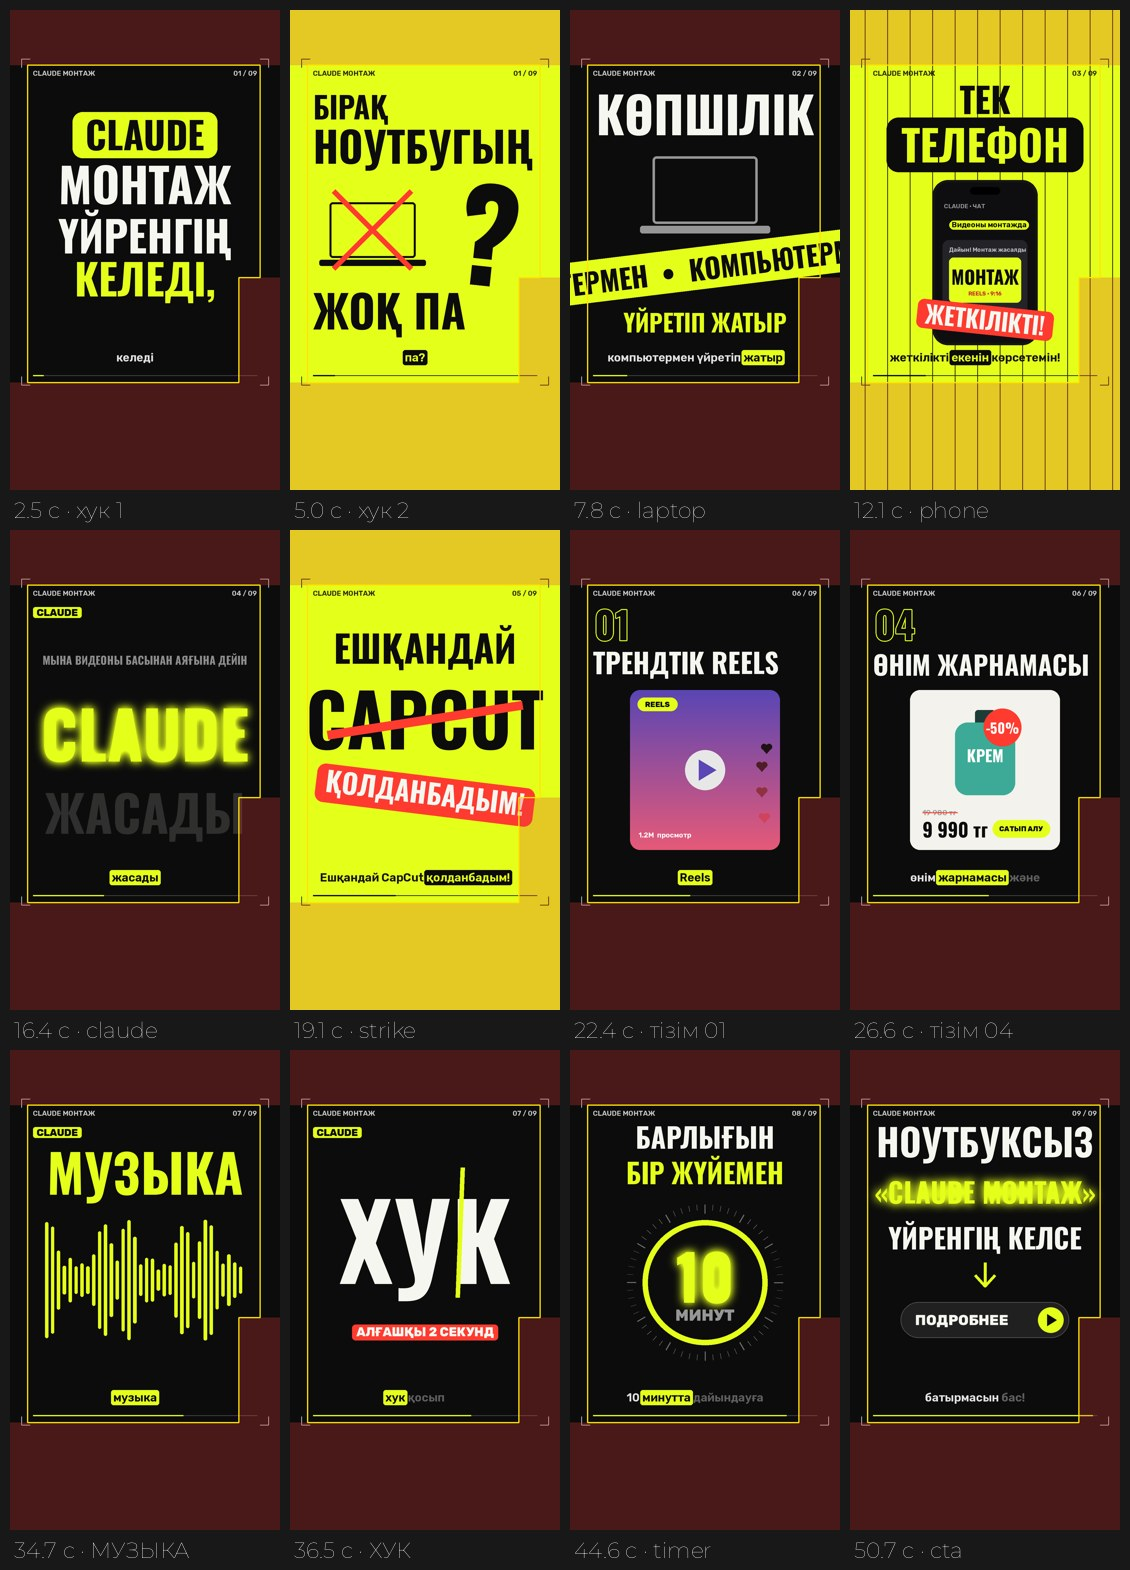
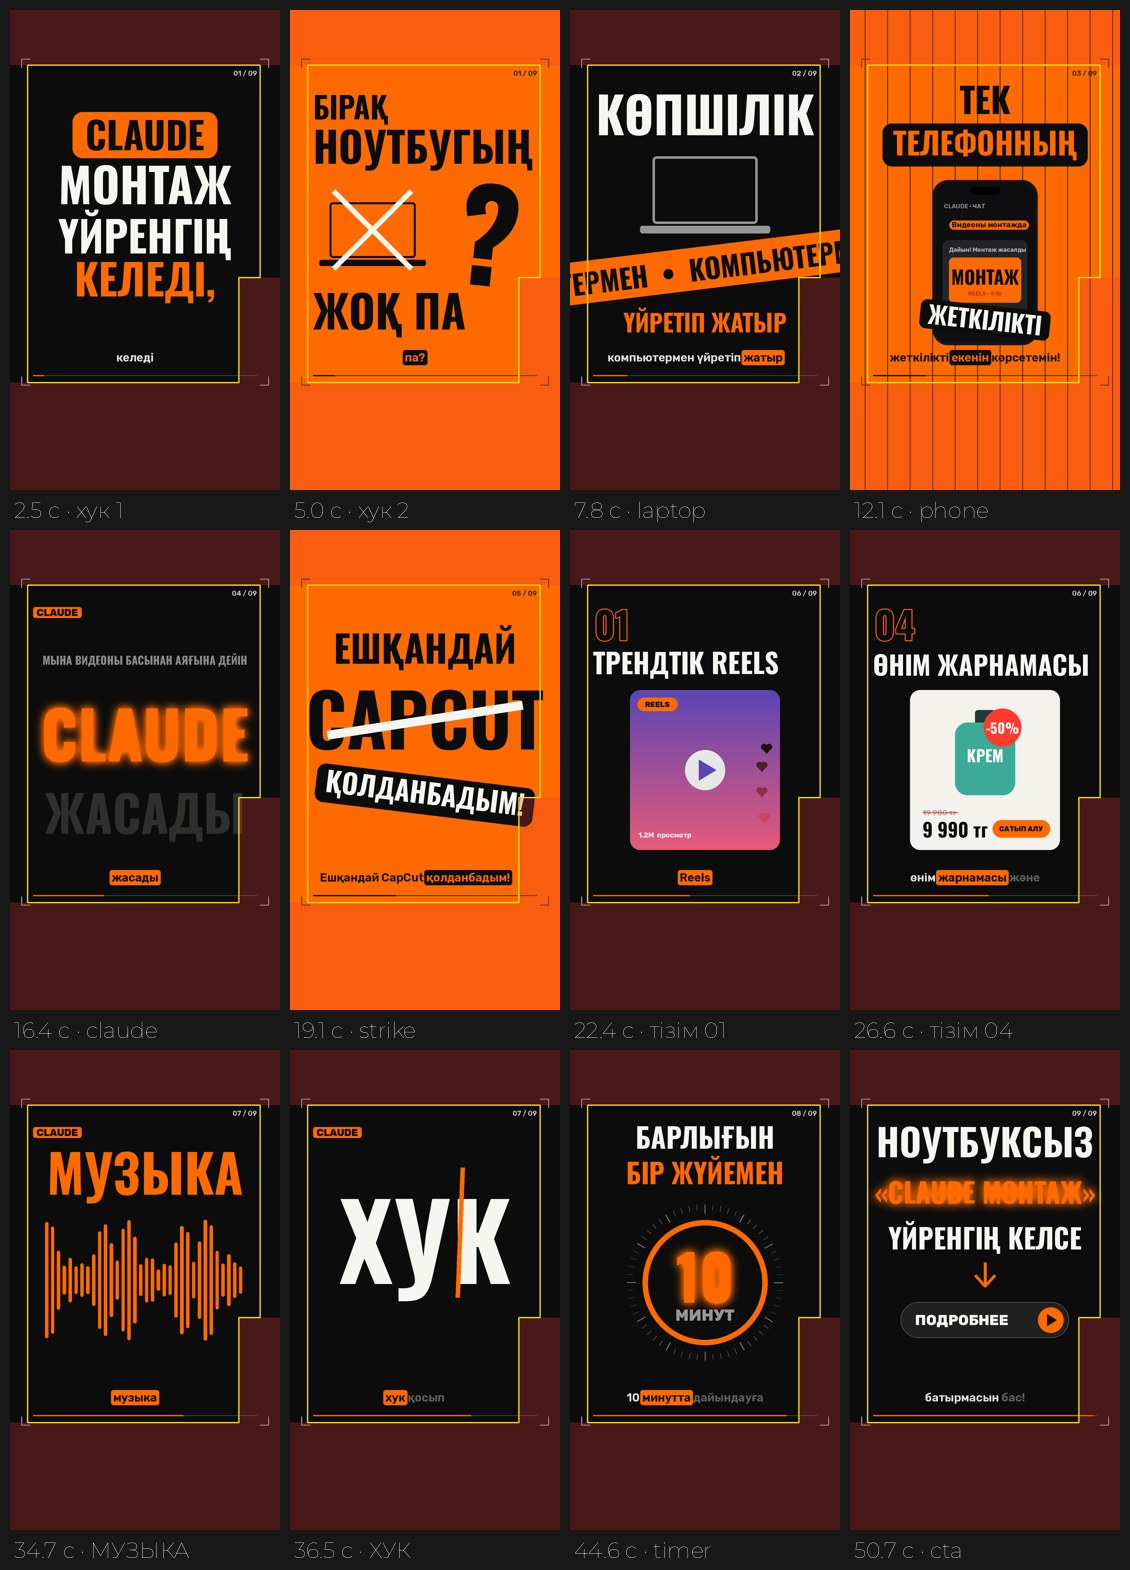
Оранжевый түс, музыкасыз, жазулар мәтін бойынша; талғам жаңартылды
Claude-Session: https://claude.ai/code/session_017A9pfpninecvKH27tc1dpf

diff --git a/.claude/skills/matin-video/scripts/lime.py b/.claude/skills/matin-video/scripts/lime.py
@@ -159,7 +159,7 @@ class LimeRenderer:
         self.plan, self.tl = plan, tl
         th = plan.get("theme", {})
         self.L = M.hex2rgb(th.get("accent", "#E4FF1A"))
-        self.label = th.get("label", "CLAUDE МОНТАЖ")
+        self.label = th.get("label", "")
         self.sc = plan["scenes"]
         self.ts = tl["scenes"]
         self.n = len(self.sc)
@@ -244,7 +244,8 @@ class LimeRenderer:
             d.line((x, y, x + sx * a, y), fill=c + (255,), width=3)
             d.line((x, y, x, y + sy * a), fill=c + (255,), width=3)
         f = rub(28, 600)
-        d.text((92, 236), self.label, font=f, fill=c + (255,))
+        if self.label:
+            d.text((92, 236), self.label, font=f, fill=c + (255,))
         cnt = "%02d / %02d" % (k + 1, self.n)
         bb = f.getbbox(cnt)
         d.text((988 - bb[2], 236), cnt, font=f, fill=c + (255,))
@@ -283,7 +284,7 @@ class LimeRenderer:
                     d.rounded_rectangle((x - pad, 1360, x + ww + pad, 1420), 10, fill=BLACK + (255,))
                     col = self.L
             else:
-                col = base if on else ((120, 130, 20) if bgk == "L" else (95, 95, 95))
+                col = base if on else ((110, 45, 0) if bgk == "L" else (95, 95, 95))
             d.text((x, 1390), w, font=f, fill=col + (255,), anchor="lm")
             x += ww + sp
 
@@ -312,7 +313,7 @@ class LimeRenderer:
             px = fit_px("НОУТБУГЫҢ", 200, 880)
             self.pop(im, text_sprite("НОУТБУГЫҢ", px, BLACK), 92, 560, tn, t, anchor="l")
             if t >= tn:
-                self.laptop(im, 330, 880, 0.82, BLACK, t - tn, cross=t - tn - 0.35)
+                self.laptop(im, 330, 880, 0.82, BLACK, t - tn, cross=t - tn - 0.35, xcol=WHITE)
             tj = self.wt(k, "жоқ")
             self.pop(im, text_sprite("ЖОҚ ПА", 180, BLACK), 92, 1220, tj, t, anchor="l")
             if t >= tj:
@@ -320,7 +321,7 @@ class LimeRenderer:
                 wob = math.sin((t - tj) * 5) * 6
                 paste(im, q, 800, 900, back((t - tj) / 0.35), 1, rot=-12 + wob)
 
-    def laptop(self, im, cx, cy, s, col, u, cross=-1.0, glow=False):
+    def laptop(self, im, cx, cy, s, col, u, cross=-1.0, glow=False, xcol=RED):
         d = ImageDraw.Draw(im)
         e = back(u / 0.35)
         w, h = 420 * s * e, 270 * s * e
@@ -331,10 +332,10 @@ class LimeRenderer:
         if cross > 0:
             c = ease(cross / 0.25)
             r = 190 * s
-            d.line((cx - r, cy - r, cx - r + 2 * r * c, cy - r + 2 * r * c), fill=RED + (255,), width=int(26 * s))
+            d.line((cx - r, cy - r, cx - r + 2 * r * c, cy - r + 2 * r * c), fill=xcol + (255,), width=int(26 * s))
             if cross > 0.12:
                 c2 = ease((cross - 0.12) / 0.25)
-                d.line((cx + r, cy - r, cx + r - 2 * r * c2, cy - r + 2 * r * c2), fill=RED + (255,), width=int(26 * s))
+                d.line((cx + r, cy - r, cx + r - 2 * r * c2, cy - r + 2 * r * c2), fill=xcol + (255,), width=int(26 * s))
 
     def v_laptop(self, im, k, t, u, bgk):
         L = self.L
@@ -397,7 +398,7 @@ class LimeRenderer:
     def v_phone(self, im, k, t, u, bgk):
         L = self.L
         self.pop(im, text_sprite("ТЕК", 140, BLACK), 540, 360, self.wt(k, "тек") - 0.3, t)
-        self.pop(im, pill_sprite("ТЕЛЕФОН", 170, L, BLACK), 540, 540, self.wt(k, "телефонның"), t)
+        self.pop(im, pill_sprite("ТЕЛЕФОННЫҢ", fit_px("ТЕЛЕФОННЫҢ", 170, 760), L, BLACK), 540, 540, self.wt(k, "телефонның"), t)
         tp = self.wt(k, "тек") - 0.3
         if t >= tp:
             e = ease((t - tp) / 0.6)
@@ -405,7 +406,7 @@ class LimeRenderer:
             self.phone(im, 540, top, 400, 640, t - tp, k, t)
         tj = self.wt(k, "жеткілікті")
         if t >= tj:
-            st = pill_sprite("ЖЕТКІЛІКТІ!", 96, WHITE, RED)
+            st = pill_sprite("ЖЕТКІЛІКТІ", 96, WHITE, BLACK)
             paste(im, st, 540, 1240, 1.4 - 0.4 * back((t - tj) / 0.25), cl((t - tj) / 0.1), rot=-6)
             self.hit(tj, "stamp")
 
@@ -432,8 +433,8 @@ class LimeRenderer:
         if t >= tq:
             d = ImageDraw.Draw(im)
             e = ease((t - tq) / 0.22)
-            d.line((150, 820, 150 + 780 * e, 700), fill=RED + (255,), width=36)
-            st = pill_sprite("ҚОЛДАНБАДЫМ!", 110, WHITE, RED)
+            d.line((150, 820, 150 + 780 * e, 700), fill=WHITE + (255,), width=36)
+            st = pill_sprite("ҚОЛДАНБАДЫМ!", 110, WHITE, BLACK)
             paste(im, st, 540, 1060, 1.5 - 0.5 * back((t - tq - 0.1) / 0.25), cl((t - tq - 0.1) / 0.1), rot=-7)
 
     # ---- тізім карточкалары
@@ -468,7 +469,7 @@ class LimeRenderer:
             d.rounded_rectangle((0, 0, cw - 1, ch - 1), 40, fill=(34, 40, 64, 255))
             d.ellipse((cw / 2 - 90, 90, cw / 2 + 90, 270), fill=(110, 120, 160, 255))
             d.rounded_rectangle((cw / 2 - 170, 290, cw / 2 + 170, 560), 120, fill=(110, 120, 160, 255))
-            words = ["ҚОЗҒАЛМАЛЫ", "СУБТИТР"]
+            words = ["ҚОЗҒАЛЫСТАҒЫ", "СУБТИТР"]
             j = int(u * 2.5) % 2
             f = font(50)
             xs = [60, 380]
@@ -541,7 +542,7 @@ class LimeRenderer:
         i = self.item_idx(k, t)
         if i < 0:
             self.pop(im, text_sprite("ОСЫ ӘДІСПЕН", 170, WHITE), 540, 680, self.ts[k]["s"] + 0.05, t)
-            self.pop(im, text_sprite("НЕ ЖАСАЙ АЛАСЫҢ?", 110, L), 540, 880, self.wt(k, "әдіспен"), t)
+            self.pop(im, text_sprite("ЖАСАЙ АЛАСЫҢ", 110, L), 540, 880, self.wt(k, "әдіспен"), t)
             return
         it = sc["items"][i]
         t0 = self.wt(k, it[1]) - 0.12
@@ -574,7 +575,6 @@ class LimeRenderer:
             self.pop(im, text_sprite("ХУК", 420, WHITE), 540, 800, t0, t, sc0=1.6)
             e = ease(uu / 0.3)
             d.line((690, 470, 690 - 20 * e, 470 + 520 * e), fill=L + (255,), width=18)
-            self.pop(im, pill_sprite("АЛҒАШҚЫ 2 СЕКУНД", 50, WHITE, RED, f=rub(50, 800)), 540, 1130, t0 + 0.2, t)
             return
         accent_word = L if (bgk == "B" and word == "МУЗЫКА") else fg
         self.pop(im, text_sprite(word, fit_px(word, 210, 880), accent_word), 540, 510, t0, t, sc0=1.35)
@@ -609,7 +609,7 @@ class LimeRenderer:
             d.line(pts, fill=BLACK + (255,), width=6)
             pts2 = [(x, 1120 + math.sin(x * 0.02 - uu * 6) * 35 * math.sin(x / 1080 * math.pi)) for x in range(110, 920, 6)]
             d.line(pts2, fill=(60, 70, 0, 255), width=4)
-        elif word == "КАДРЛАР":
+        elif word == "КАДРЛАРДЫ":
             x0, y0, x1, y1 = 120, 760, 900, 1180
             d.rounded_rectangle((x0, y0, x1, y1), 26, fill=(20, 20, 20, 255))
             for j in range(10):
@@ -714,7 +714,7 @@ class LimeRenderer:
 
 
 # ---------------------------------------------------------------- дыбыс
-def sfx_lime(plan, tl, path):
+def sfx_lime(plan, tl, path, bed=False):
     sr = 48000
     n = int((tl["dur"] + 1) * sr)
     out = np.zeros(n, np.float32)
@@ -777,26 +777,27 @@ def sfx_lime(plan, tl, path):
         elif viz == "cta":
             pop(word_time(ws, "подробнее", st), 0.22, 1100)
             pop(word_time(ws, "бас", st), 0.22, 1700)
-    # жеңіл бит (музыка орнына): 100 bpm kick + hat
-    T = np.arange(n) / sr
-    beat = 60 / 100
-    L = int(0.35 * sr)
-    x = np.arange(L) / sr
-    kick = np.sin(2 * np.pi * np.cumsum(95 * np.exp(-x * 22) + 48) / sr) * np.exp(-x * 9) * 0.16
-    hl = int(0.03 * sr)
-    hat = rng.standard_normal(hl) * np.exp(-np.arange(hl) / sr * 170) * 0.022
-    bass = np.sin(2 * np.pi * 55 * np.arange(int(beat * sr)) / sr) * np.exp(-np.arange(int(beat * sr)) / sr * 4) * 0.05
-    b = 0.0
-    j = 0
-    while b < tl["dur"] - 0.8:
-        add(b * sr, kick)
-        add((b + beat / 2) * sr, hat)
-        if j % 2 == 0:
-            add(b * sr, bass)
-        b += beat
-        j += 1
-    fade = np.clip((tl["dur"] + 0.6 - T) / 1.5, 0, 1).astype(np.float32)
-    out *= np.where(T > tl["dur"] - 1.5, fade, 1).astype(np.float32)
+    if bed:
+        # жеңіл бит (музыка орнына): 100 bpm kick + hat
+        T = np.arange(n) / sr
+        beat = 60 / 100
+        L = int(0.35 * sr)
+        x = np.arange(L) / sr
+        kick = np.sin(2 * np.pi * np.cumsum(95 * np.exp(-x * 22) + 48) / sr) * np.exp(-x * 9) * 0.16
+        hl = int(0.03 * sr)
+        hat = rng.standard_normal(hl) * np.exp(-np.arange(hl) / sr * 170) * 0.022
+        bass = np.sin(2 * np.pi * 55 * np.arange(int(beat * sr)) / sr) * np.exp(-np.arange(int(beat * sr)) / sr * 4) * 0.05
+        b = 0.0
+        j = 0
+        while b < tl["dur"] - 0.8:
+            add(b * sr, kick)
+            add((b + beat / 2) * sr, hat)
+            if j % 2 == 0:
+                add(b * sr, bass)
+            b += beat
+            j += 1
+        fade = np.clip((tl["dur"] + 0.6 - T) / 1.5, 0, 1).astype(np.float32)
+        out *= np.where(T > tl["dur"] - 1.5, fade, 1).astype(np.float32)
     with wave.open(path, "wb") as w:
         w.setnchannels(1)
         w.setsampwidth(2)
@@ -815,7 +816,7 @@ def render_cover(plan, out):
     paste(im, text_sprite(cv.get("top", "НОУТБУКСЫЗ"), 170, BLACK), 540, 430, 1, 1)
     paste(im, pill_sprite("CLAUDE", 230, L, BLACK), 540, 680, 1, 1, rot=-3)
     paste(im, text_sprite(cv.get("mid", "МОНТАЖ"), 280, BLACK), 540, 960, 1, 1)
-    paste(im, pill_sprite(cv.get("bottom", "ТЕК ТЕЛЕФОНМЕН"), 90, WHITE, RED), 540, 1210, 1, 1, rot=-4)
+    paste(im, pill_sprite(cv.get("bottom", "ТЕК ТЕЛЕФОН"), 90, L, BLACK), 540, 1210, 1, 1, rot=-4)
     f = rub(30, 600)
     d.text((92, 236), plan.get("theme", {}).get("label", "CLAUDE МОНТАЖ"), font=f, fill=(30, 30, 10, 255))
     im.convert("RGB").save(out, quality=93)

diff --git a/менің-талғамым.md b/менің-талғамым.md
@@ -5,3 +5,6 @@ Claude бұл файлды әр монтаждан бұрын оқиды. Бір
 - Тіл әрқашан қазақша, басқаша айтпасам.
 - Обложка әрқашан керек, заголовогы қазақша.
 - Рендерден кейін қазақша caption + 5–8 хэштег жаз.
+- Фондық музыка ешқашан керек емес — сұрама, қоспа (тек дауыс + дыбыс эффектілері).
+- Видеода Instagram аты / жоғарғы жазу керек емес.
+- Экрандағы жазулар мәтіндегі сөздермен бірдей болсын, сөздерді өзгертпе.
